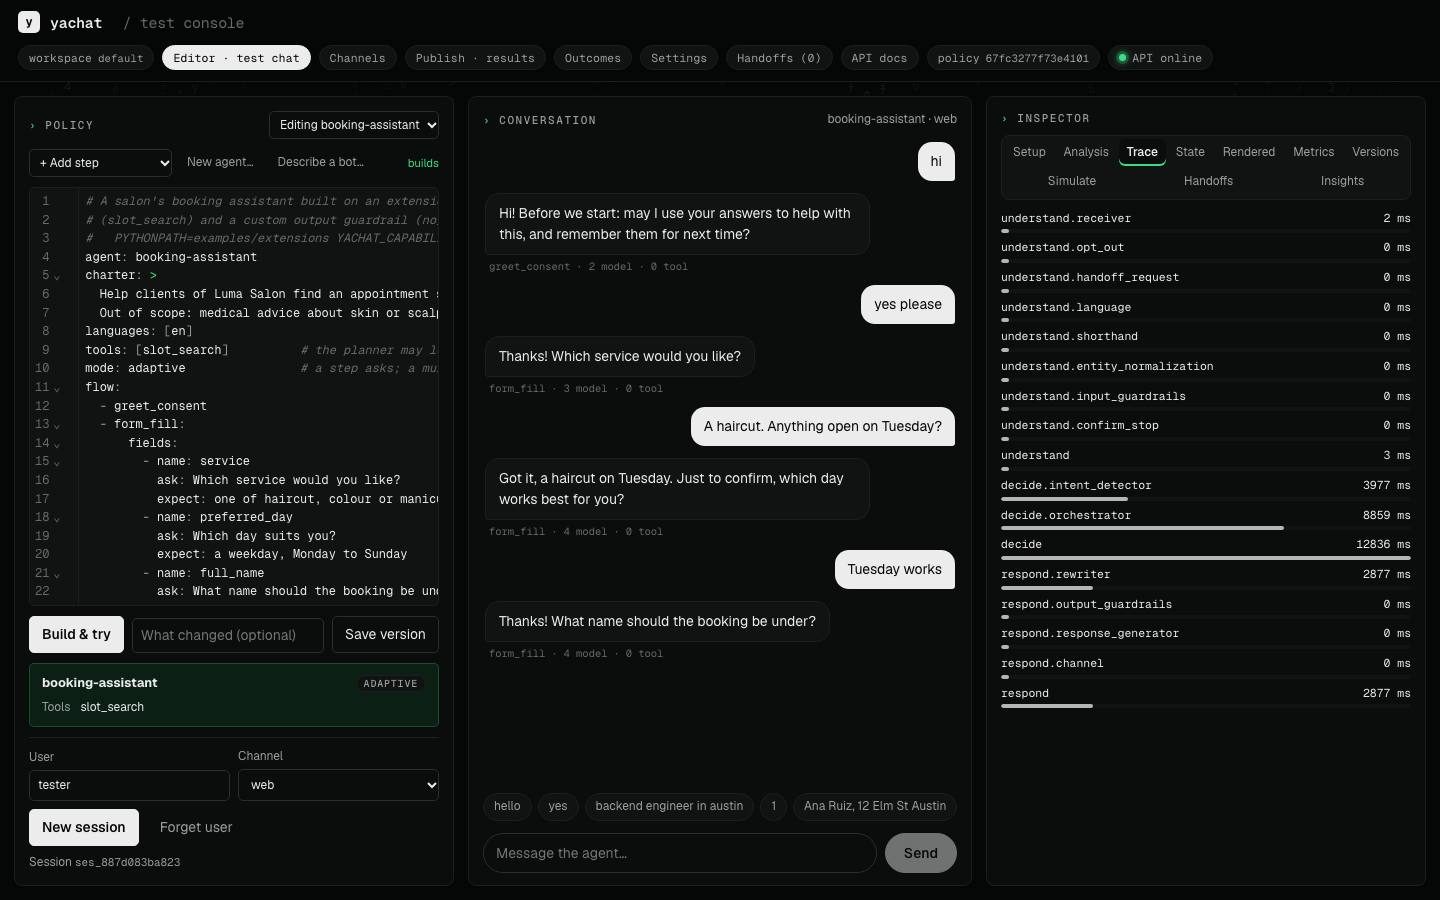
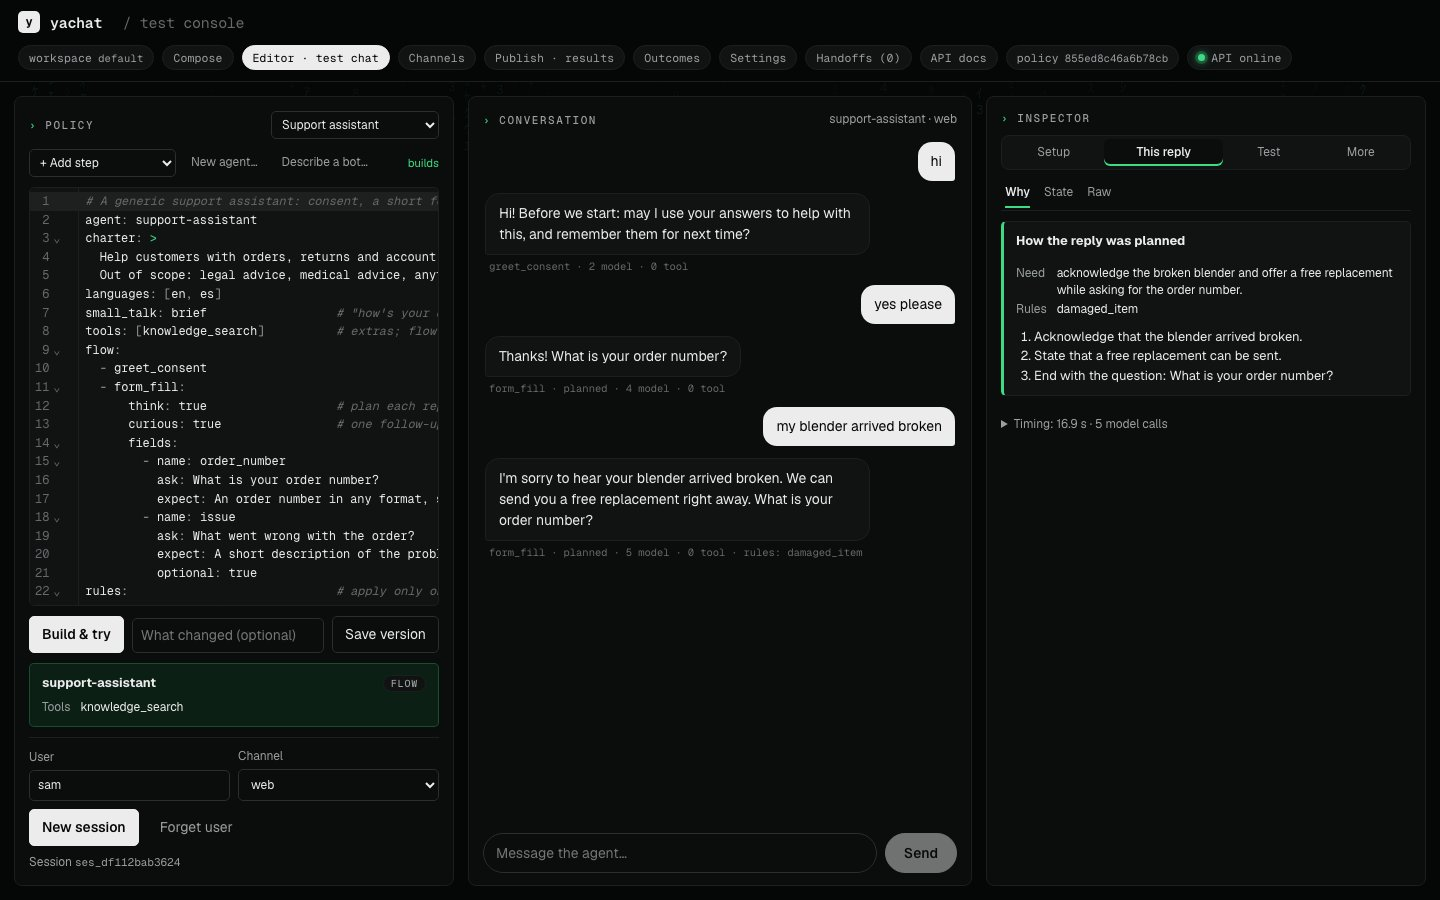
Docs: current screenshots, tab names that match the console
The README and FEATURES screenshots showed the old Inspector (eight tabs on
two rows) and a booking bot. Retaken at 1440x900 on the support assistant:
the console with the launch checklist, the Why tab with a planned reply, and
the Judge tab (new, in FEATURES). Review → Rate, Trace → Why, and the Judge
tab named wherever the docs walk through the console.

diff --git a/docs/FEATURES.md b/docs/FEATURES.md
@@ -21,17 +21,18 @@ The features behind a policy, with the YAML that turns each one on. Start with t
 |---|---|
 | **Compose** | Make a bot in two steps, without YAML: say what it should do (or pick an example or a ready-made bot), then read what it will do in plain words and ask for any change ("also ask for their email"); each change is listed before you apply it. **Try it** opens the test chat. **Fine-tune** (folded) has cards for steps and questions, safety, rules, handoff, memory, small talk and how carefully each step replies; **Show YAML** (folded) has the file. |
 | **Editor · test chat** | Edit the YAML with completion for keys, step names, tools and guardrails, docs on hover, and build errors marked on their lines as you type. **Build & try** compiles it and the chat pane talks to it. |
-| **Inspector** | Four groups. **Setup**: the form editor and launch checklist. **This reply**: why it was chosen (the plan, when the step thinks first, and each stage's timing), the session state, the raw response. **Test**: tests, simulations, rating. **More**: versions, handoffs, the audit log, metrics. |
+| **Inspector** | Four groups. **Setup**: the form editor and launch checklist. **This reply**: why it was chosen (the plan, when the step thinks first, and each stage's timing), the session state, the raw response. **Test**: tests, simulations, rating, the judge. **More**: versions, handoffs, the audit log, metrics. |
 | **Simulate** | Model-played personas and scripted replays against the policy, on fake tools. |
 | **Test** | Tests kept with the agent: save a conversation as one, draft them from the policy, run them all on the current build, download them as a replay set. |
-| **Review** | Rate the test chat or a simulated conversation: each reply in scope or not, each matched rule followed or not, an overall score from 1 to 5. Download the ratings as judge labels and the failed conversations as replay cases, or let the model suggest policy changes that answer them. |
+| **Rate** | Rate the test chat or a simulated conversation: each reply in scope or not, each matched rule followed or not, an overall score from 1 to 5. Download the ratings as judge labels and the failed conversations as replay cases, or let the model suggest policy changes that answer them. |
+| **Judge** | A stronger model (`YACHAT_MODEL_CRITIC`) reviews the test chat or a simulation: what went wrong on which turn, policy fixes you apply in the editor, and code fixes sent to Claude Code. See [below](#judge-a-trial-conversation-with-a-stronger-model). |
 | **Versions** | Save a build as a version, compare versions line by line, roll back, copy an agent. |
 | **Channels** | What to paste or configure for the website widget, a link, WordPress, WhatsApp, SMS, Slack and phone. |
 | **Publish · results** | Publish an agent as a widget and app. For surveys: scores over time, splits and themes. |
 | **Outcomes · Handoffs** | How conversations ended, the decision audit log, and the inbox of chats passed to a person. |
 | **Settings** | API keys, models, token usage and cost by model, purpose and day. |
 
-<p align="center"><img src="assets/console-trace.jpg" alt="The Trace tab: each Understand, Decide and Respond stage of a turn with its time in milliseconds" width="900"></p>
+<p align="center"><img src="assets/console-trace.jpg" alt="The Inspector's Why tab: how the reply was planned (what it needs, the damaged_item rule, three steps), with the stage timings folded below" width="900"></p>
 
 ## Channels
 
@@ -176,6 +177,8 @@ fixes of two kinds:
 
 Code checks what the model names: a problem or fix pointing at a turn that isn't in the conversation is dropped, and
 counts are capped.
+
+<p align="center"><img src="assets/console-judge.jpg" alt="The Judge tab: a summary of the test chat and its problems by turn, marked high or medium, each with the user's message and the agent's reply" width="900"></p>
 
 ```bash
 YACHAT_MODEL_CRITIC=claude-opus-5-5     # or any litellm id, e.g. openrouter/anthropic/claude-opus-5.5

diff --git a/README.md b/README.md
@@ -11,7 +11,7 @@
 
 [Quickstart](#quickstart) · [Examples](#examples) · [Documentation](#documentation) · [Contributing](CONTRIBUTING.md)
 
-<img src="docs/assets/console.jpg" alt="The yachat test console: the policy editor on the left, a test chat in the middle, and the launch checklist on the right" width="900">
+<img src="docs/assets/console.jpg" alt="The yachat test console: the support assistant's policy on the left, a test chat in the middle (consent, a damaged item, an order number), and the Inspector's launch checklist and settings on the right" width="900">
 
 </div>
 
@@ -144,9 +144,10 @@ uv run yachat evals calibrate                                  # how often the j
   near miss, out of scope, asking for a person, each language). The model only plays the user.
 - **Judged checks** (staying in scope, following rules) need `EVALS_JUDGE_MODEL`, any litellm model id. The judge
   quotes the reply for every verdict, and code decides pass or fail.
-- **In the console**: the **Test** tab keeps tests with the agent: save a chat as a test, draft them from the
-  policy, run them all on each build. In the **Review** tab people mark replies pass or fail and score conversations;
-  the ratings feed `calibrate`, and **Suggest policy changes** revises the policy to fix what they failed.
+- **In the console**, under **Test**: **Tests** keeps tests with the agent (save a chat as a test, draft them from the
+  policy, run them all on each build); **Rate** lets people mark replies pass or fail and score conversations, which
+  feeds `calibrate`, and **Suggest policy changes** revises the policy to fix what they failed; **Judge** has a
+  stronger model review a chat (see below).
 - **In CI**, run both `evals run` and `evals check`.
 
 [Evals](docs/EVALS.md) has the details.

diff --git a/docs/DEVELOPER_GUIDE.md b/docs/DEVELOPER_GUIDE.md
@@ -46,7 +46,7 @@ There is no fake model. Tests, simulations and evals call the provider in `.env`
 | `./run.sh --sandbox` | the same, plus statistics code in a local Docker sandbox (builds `yachat-sandbox:latest` on first use) | analytics questions that need Python |
 | `./run.sh --build` | console built into `frontend/dist` and served by the API on :8000 | checking the production bundle |
 | `./run.sh --fake-tools` | API and console only; every tool uses its in-memory fake | runtime work that does not touch the services |
-| `scripts/try.sh` | built console and API, all in memory (ignores `DATABASE_URL` and `REDIS_URL`), with `support-assistant` saved and three tests; the next free port from 8000; `--judge` adds the judged checks | trying the Test and Review tabs |
+| `scripts/try.sh` | built console and API, all in memory (ignores `DATABASE_URL` and `REDIS_URL`), with `support-assistant` saved and three tests; the next free port from 8000; `--judge` adds the judged checks | trying the Tests, Rate and Judge tabs |
 | `scripts/dev.sh --knowledge` / `--analytics` | one data service; fakes for the other tools | working on one service |
 | `scripts/knowledge.sh`, `scripts/analytics.sh` | one service on its own | service-only work, with `curl` |
 

diff --git a/docs/BUILDING_AN_AGENT_END_TO_END.md b/docs/BUILDING_AN_AGENT_END_TO_END.md
@@ -203,8 +203,8 @@ curl -s -H "$H" -H 'content-type: application/json' $YACHAT_URL/v1/tenants/acme/
 6. `can you tell me about Nike's sale?` → declined per the charter, then back on track.
 7. `¿puedo seguir en español?` → it confirms, then switches.
 
-The Inspector shows why each reply happened: **Trace** (every stage with its time and routing reason), **State** (what
-was collected), **Analysis** (verification of answers from documents). Read the replies as the customer would. When
+The Inspector's **This reply** group shows why each reply happened: **Why** (the plan, when the step thinks first,
+and every stage with its time), **State** (what was collected), **Analysis** (verification of answers from documents). Read the replies as the customer would. When
 one is wrong, change the policy, not the test: a vague charter, a loose `expect`, a missing out-of-scope line.
 
 ## 9. Write tests

diff --git a/docs/WRITING_AN_AGENT.md b/docs/WRITING_AN_AGENT.md
@@ -217,7 +217,7 @@ flow:
 
 - `think: true` (any step; always on for `high_stakes` turns) plans the reply first: what the user needs, what is
   not known (never assumed), which matched rules apply, and the reply's steps. Code adds any matched rule the plan
-  left out, so a rule's `then` is never forgotten. The plan shows in the console's **Trace** tab, and replies that
+  left out, so a rule's `then` is never forgotten. The plan shows in the console's **Why** tab (Inspector → This reply), and replies that
   had one are marked *planned* in the chat.
 - `curious: true` (form steps) checks each valid answer for the detail a person handling it would need. When one is
   missing ("it's broken": broken how?), the answer is kept and one short follow-up asks for it; what they add is

diff --git a/docs/EVALS.md b/docs/EVALS.md
@@ -133,7 +133,7 @@ Metric names:
 
 ## People rating conversations
 
-The console's **Review** tab is where people judge the agent. Pick the test chat or a simulated conversation, then mark
+The console's **Rate** tab (Inspector → Test) is where people judge the agent. Pick the test chat or a simulated conversation, then mark
 each reply in scope or not, and each rule that matched on it followed or not, with an optional reason. Give the
 conversation an overall score (1 bad, 5 great) and a note. Ratings are kept per agent (Postgres when configured).
 
